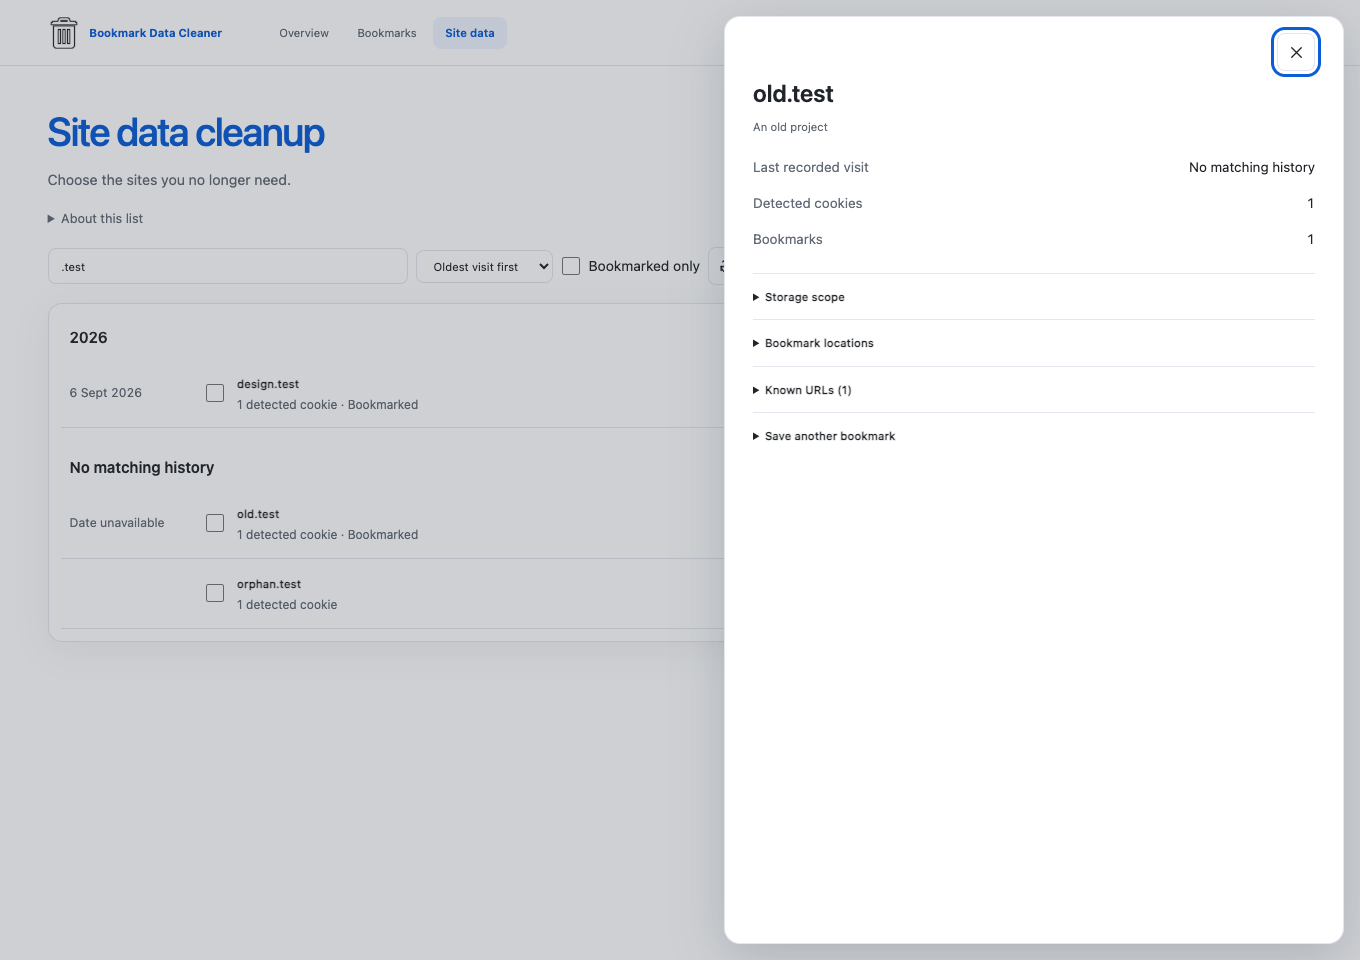
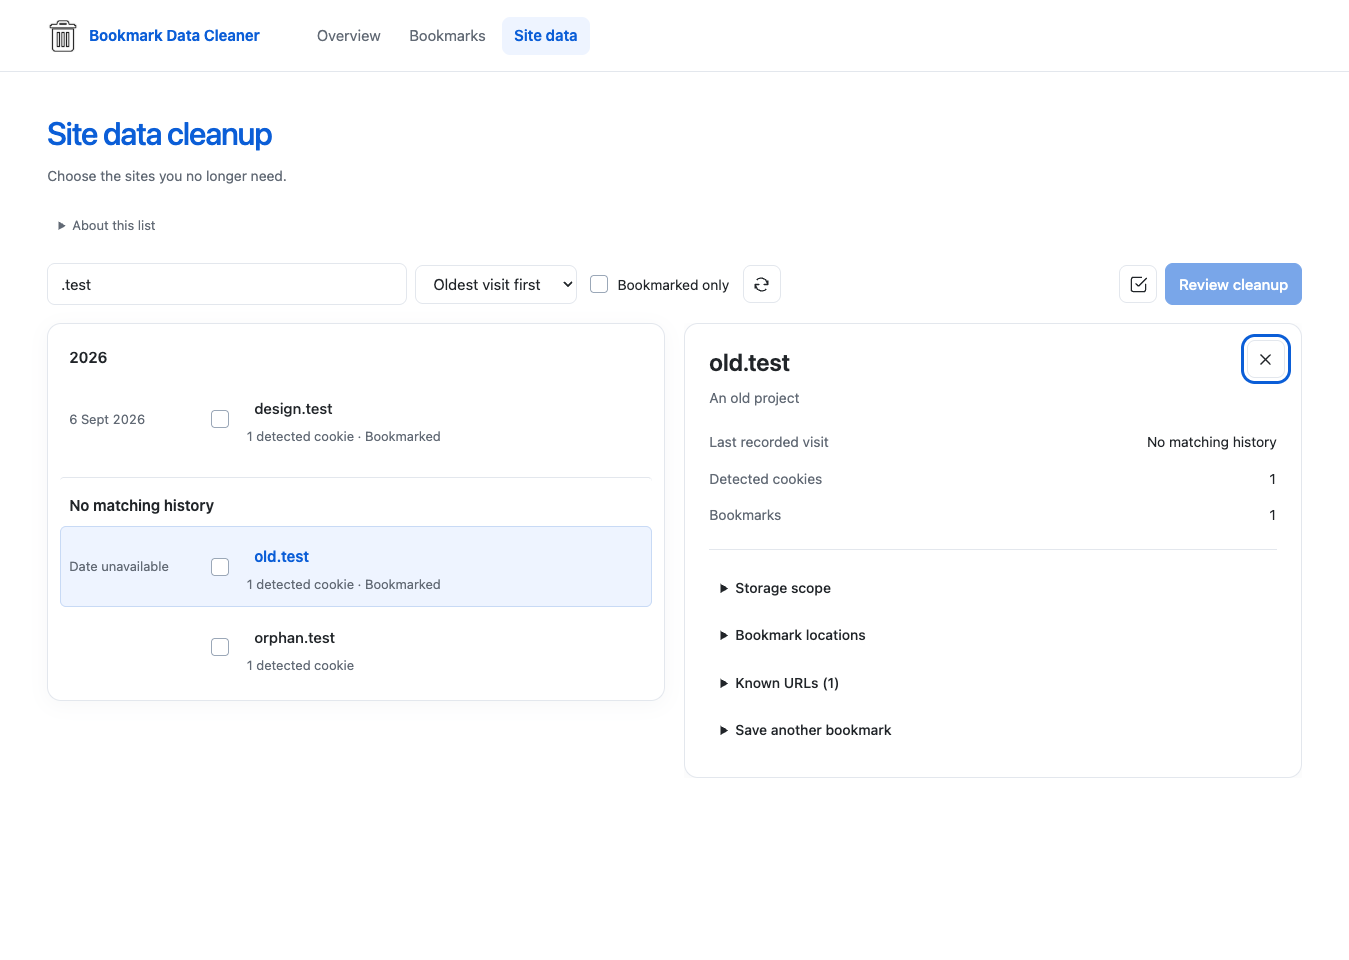
docs: record UI review findings and refreshed screens

diff --git a/.impeccable/critique/2026-09-07T13-47-26Z__extension-app-html.md b/.impeccable/critique/2026-09-07T13-47-26Z__extension-app-html.md
@@ -1,0 +1,63 @@
+---
+target: Main extension UI hierarchy and clutter
+total_score: 27
+max_score: 40
+na_heuristics: 
+p0_count: 0
+p1_count: 1
+target_identity: "file:/Users/katrinading/Code/projects/Bookmark-Data-Cleaner/extension/app.html"
+target_fingerprint: "sha256:91de154a761ecd7ed92ee398d1df2fe877e68384b3cb295437b5fff072da4eaa"
+target_path: /Users/katrinading/Code/projects/Bookmark-Data-Cleaner/extension/app.html
+timestamp: 2026-09-07T13-47-26Z
+slug: extension-app-html
+closed: true
+---
+# UI hierarchy review — 2026-09-07
+
+Method: dual-agent (A: hierarchy_review · B: ui_evidence). A reviewed design independently; B measured the live interface and ran the detector. Both used disposable Edge profiles.
+
+The blue/white identity, folder tree, data timeline and progressive disclosure fit the product. The main weakness was typography and contextual emphasis, rather than excess content.
+
+## Baseline assessment
+
+Scores describe the interface before this pass, not a fresh score of the finished changes.
+
+| Heuristic | Score / 4 | Finding |
+| --- | --- | --- |
+| System status | 3 | Loading/results exist; inspected row lacked state |
+| Real-world language | 3 | Clear verbs; some technical details |
+| User control | 3 | Independent selection and explicit review |
+| Consistency | 2 | Font inheritance inverted the type hierarchy |
+| Error prevention | 3 | Exact scope and confirmation retained |
+| Recognition | 2 | No row-to-details indication |
+| Efficiency | 3 | Bulk selection and interactive split view |
+| Minimalist design | 2 | Tiny task text and repetitive rules |
+| Error recovery | 3 | Actionable scoped feedback |
+| Help/documentation | 3 | Contextual disclosures |
+| **Total** | **27 / 40** | **Sound foundation; hierarchy needed correction** |
+
+Cognitive load: three weaknesses — title/metadata hierarchy, remembering the inspected row, and seven ungrouped toolbar controls. Low-vision users faced tiny task text; frequent users lacked inspection context; newcomers had to distinguish row inspection from cleanup selection.
+
+Strengths: deliberate cleanup review, local metadata, restrained palette and interactive split view. The emotional journey is calm entry, uncertainty when a row lacks visible state, then reassurance from explicit scope and confirmation.
+
+## Priorities addressed
+
+1. **P1 · Typography:** Edge rendered row/folder labels at 11.25px despite a 15px root font; metadata was 11.7px and page headings approached 40px. Explicit body inheritance and shared type roles now establish 15px row titles, 13px metadata and 27–32px page headings.
+2. **P2 · Inspection context:** The current row now has a persistent tint and accessible current-state indication. It survives list refreshes and clears on dismissal, independently of cleanup selection.
+3. **P2 · Details clutter:** Close sits beside the heading. Tighter disclosures and one summary divider replace the ladder of separators. Card shadows are softer; timeline groups use separators instead of every row.
+4. **P2 · Toolbar hierarchy:** Filters and cleanup actions are grouped. Clear selection is hidden until useful.
+
+Suggested Impeccable follow-ups used here: typeset, polish, layout and distill. No framework, downloaded font, external website preview or cleanup behavior was added.
+
+## Evidence and validation
+
+- CLI detector: zero findings in `extension`; this did not detect the live font inheritance problem.
+- Live samples: 1360px and 900px wide; existing narrow-window fixtures also reviewed.
+- Detector overlay injection was blocked or failed on the extension's routes. No user-visible overlay is claimed; source inspection, computed styles and screenshots supplied the evidence.
+- New regression assertions verify readable primary text, secondary metadata and inspected-row state across switching, refresh and dismissal.
+- Typecheck, 11 unit tests, build and all six browser suites passed in Edge.
+- Visual comparison confirmed the desktop list and details remain side by side with no overlap. Narrow-window overflow checks passed.
+
+Known follow-up: in a narrow window, details is below a long list. Bringing newly opened details into view deserves a separate responsive interaction pass.
+
+Questions skipped: the user's established preferences and request to continue authorize this bounded polish pass.

diff --git a/docs/ui-review.md b/docs/ui-review.md
@@ -1,0 +1,49 @@
+# UI hierarchy review — 2026-09-07
+
+Method: dual-agent (A: hierarchy_review · B: ui_evidence). A reviewed design independently; B measured the live interface and ran the detector. Both used disposable Edge profiles.
+
+The blue/white identity, folder tree, data timeline and progressive disclosure fit the product. The main weakness was typography and contextual emphasis, rather than excess content.
+
+## Baseline assessment
+
+Scores describe the interface before this pass, not a fresh score of the finished changes.
+
+| Heuristic | Score / 4 | Finding |
+| --- | --- | --- |
+| System status | 3 | Loading/results exist; inspected row lacked state |
+| Real-world language | 3 | Clear verbs; some technical details |
+| User control | 3 | Independent selection and explicit review |
+| Consistency | 2 | Font inheritance inverted the type hierarchy |
+| Error prevention | 3 | Exact scope and confirmation retained |
+| Recognition | 2 | No row-to-details indication |
+| Efficiency | 3 | Bulk selection and interactive split view |
+| Minimalist design | 2 | Tiny task text and repetitive rules |
+| Error recovery | 3 | Actionable scoped feedback |
+| Help/documentation | 3 | Contextual disclosures |
+| **Total** | **27 / 40** | **Sound foundation; hierarchy needed correction** |
+
+Cognitive load: three weaknesses — title/metadata hierarchy, remembering the inspected row, and seven ungrouped toolbar controls. Low-vision users faced tiny task text; frequent users lacked inspection context; newcomers had to distinguish row inspection from cleanup selection.
+
+Strengths: deliberate cleanup review, local metadata, restrained palette and interactive split view. The emotional journey is calm entry, uncertainty when a row lacks visible state, then reassurance from explicit scope and confirmation.
+
+## Priorities addressed
+
+1. **P1 · Typography:** Edge rendered row/folder labels at 11.25px despite a 15px root font; metadata was 11.7px and page headings approached 40px. Explicit body inheritance and shared type roles now establish 15px row titles, 13px metadata and 27–32px page headings.
+2. **P2 · Inspection context:** The current row now has a persistent tint and accessible current-state indication. It survives list refreshes and clears on dismissal, independently of cleanup selection.
+3. **P2 · Details clutter:** Close sits beside the heading. Tighter disclosures and one summary divider replace the ladder of separators. Card shadows are softer; timeline groups use separators instead of every row.
+4. **P2 · Toolbar hierarchy:** Filters and cleanup actions are grouped. Clear selection is hidden until useful.
+
+Suggested Impeccable follow-ups used here: typeset, polish, layout and distill. No framework, downloaded font, external website preview or cleanup behavior was added.
+
+## Evidence and validation
+
+- CLI detector: zero findings in `extension`; this did not detect the live font inheritance problem.
+- Live samples: 1360px and 900px wide; existing narrow-window fixtures also reviewed.
+- Detector overlay injection was blocked or failed on the extension's routes. No user-visible overlay is claimed; source inspection, computed styles and screenshots supplied the evidence.
+- New regression assertions verify readable primary text, secondary metadata and inspected-row state across switching, refresh and dismissal.
+- Typecheck, 11 unit tests, build and all six browser suites passed in Edge.
+- Visual comparison confirmed the desktop list and details remain side by side with no overlap. Narrow-window overflow checks passed.
+
+Known follow-up: in a narrow window, details is below a long list. Bringing newly opened details into view deserves a separate responsive interaction pass.
+
+Questions skipped: the user's established preferences and request to continue authorize this bounded polish pass.

diff --git a/DESIGN.md b/DESIGN.md
@@ -28,3 +28,9 @@ Folder expansion: 220ms, with a rotating chevron. All native disclosures animate
 The original refinement was independently reviewed. Follow-up interactions are checked in disposable Edge profiles. No real website previews or remote favicons are loaded.
 
 Entire bookmark, folder and site rows are clickable, with independent padded checkbox targets. Hover surfaces have inset spacing; unchecked checkboxes use a lighter neutral border, with native rendering retained in forced colors.
+
+## Typography and visual hierarchy
+
+Explicitly inherit the root font on `body`: Chromium extension defaults otherwise shrink task labels. Use 15px row titles, 14px supporting controls, 13px metadata, 24px details headings and 27–32px page headings. Folder labels are semibold; row labels are medium. Keep the existing system fonts and blue accent.
+
+The inspected row uses a quiet blue tint and `aria-current`, separate from cleanup checkboxes. Preserve this context after list refreshes. Details places close beside its heading and uses one divider between summary values and expandable sections. Site filters and cleanup selection actions form separate toolbar groups; clear selection appears only when applicable.
